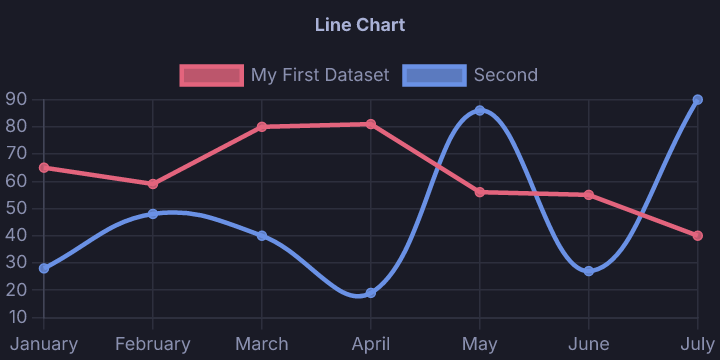
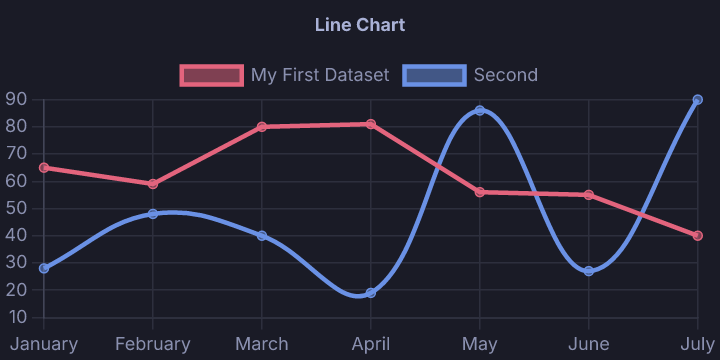
Shared hover path, browser-ready terminal APIs, translucent theme area fills
Library changes the demo site needed, each useful on its own:
- Chart::hover_at: pointer position (or None) to active elements and tooltip, as Chart.js's
  event handling does. Session now calls it; so do the canvas and terminal halves of the demo,
  so every host hovers through one code path.
- TerminalInfo::from_capabilities: build a TerminalInfo from a sans-IO Detector result, for
  hosts that talk to the terminal themselves (a browser terminal, a remote session).
- Session::to_terminal: chart position to terminal device pixels, the inverse of how pointer
  reports map to the chart (an SGR 1016 report there hovers that point).
- next_image_id no longer calls std::process::id() on wasm32, where it panics.

Terminal themes: every dataset fill used the contrast-checked mark alpha (>= 0.8 on dark
themes), so line and radar areas hid each other and a radar's tick labels. Areas behind lines
(line and radar datasets) now use Chart.js's own 50% (Theme::area_color); bars, bubbles and
polar segments keep the contrast rule. Regenerated the 19 dark gallery images that change.

kc-preview: placeholder cells now read the third diacritic (the image id's top byte), so
double-buffered ids (kitty::alternate_id) show in its screenshots instead of blank charts.

Tests: hover_at (active/tooltip/change reporting), to_terminal round trip in kitty and text
modes, theme area alpha for mixed bar+line and radar; all mutation-checked.

Changed region(s): [[0.55, 0.1833, 0.6417, 0.2444], [0.2444, 0.1833, 0.3361, 0.2444], [0.9472, 0.6417, 0.9778, 0.6722]]

diff --git a/crates/kittychart-core/src/chart.rs b/crates/kittychart-core/src/chart.rs
@@ -462,6 +462,27 @@ impl Chart {
         self.tooltip_event = event;
     }
 
+    /// The pointer is at `(x, y)` in chart CSS pixels, or left the chart (`None`): set the
+    /// active elements and the tooltip as Chart.js's event handling does (the `hover` and
+    /// `interaction` options pick what is active, the tooltip's own mode what it lists).
+    /// Returns whether anything visible changed (the next draw differs).
+    pub fn hover_at(&mut self, p: Option<(f64, f64)>) -> bool {
+        let (active, tooltip) = match p {
+            Some((x, y)) => (
+                self.elements_at(x, y, &self.hover_interaction()),
+                self.elements_at(x, y, &self.tooltip_interaction()),
+            ),
+            None => (vec![], vec![]),
+        };
+        let mut sorted = active.clone();
+        sorted.sort();
+        sorted.dedup();
+        let changed = sorted != self.active || tooltip != self.tooltip_active || self.tooltip_event != p;
+        self.set_active(active);
+        self.set_tooltip(tooltip, p);
+        changed
+    }
+
     /// `chart.getDataVisibility(index)`.
     pub fn data_visible(&self, index: usize) -> bool {
         !self.hidden_data.contains(&index)
@@ -2504,8 +2525,10 @@ fn apply_colors_plugin(config: &ChartConfig, theme: Option<&crate::theme::Theme>
         let i = color_index;
         color_index += 1;
         if let Some(obj) = ds.as_object_mut() {
+            // Areas behind lines stay translucent; fills that are the mark keep their contrast.
+            let area = matches!(kind, ChartType::Line | ChartType::Radar);
             let (border, fill) = match theme {
-                Some(t) => (t.border_color(i), t.fill_color(i)),
+                Some(t) => (t.border_color(i), if area { t.area_color(i) } else { t.fill_color(i) }),
                 None => (
                     BORDER_COLORS[i % BORDER_COLORS.len()].to_owned(),
                     BACKGROUND_COLORS[i % BACKGROUND_COLORS.len()].to_owned(),
@@ -2608,4 +2631,52 @@ fn set_border_skipped(
     mark(&parse_edge(&edge));
     bar.border_skipped = res;
     let _ = is_between;
+}
+
+#[cfg(test)]
+mod colors_tests {
+    use super::*;
+    use crate::theme::{AREA_ALPHA, TerminalColors, Theme, parse_hex};
+
+    fn tokyonight() -> Theme {
+        let h = |s| parse_hex(s).unwrap();
+        let pal = [
+            "#1a1b26", "#f7768e", "#9ece6a", "#e0af68", "#7aa2f7", "#ad8ee6", "#449dab", "#a9b1d6",
+            "#414868", "#ff7a93", "#b9f27c", "#ff9e64", "#7da6ff", "#bb9af7", "#0db9d7", "#c0caf5",
+        ]
+        .map(h);
+        Theme::from_terminal(&TerminalColors {
+            background: h("#1a1b26"),
+            foreground: h("#a9b1d6"),
+            palette: Some(pal),
+        })
+    }
+
+    fn alpha(v: &Value) -> f64 {
+        let s = v.as_str().unwrap();
+        s.trim_end_matches(')').rsplit(',').next().unwrap().trim().parse().unwrap()
+    }
+
+    /// Terminal-theme fills: bars keep their contrast-checked opacity, while the areas behind
+    /// lines (line and radar fills) stay as translucent as Chart.js's, so overlapping areas and
+    /// a radar's tick labels show through.
+    #[test]
+    fn theme_fills_behind_lines_stay_translucent() {
+        let t = tokyonight();
+        assert!(t.fill_alpha >= 0.8, "dark themes use opaque mark fills: {}", t.fill_alpha);
+        let mixed = ChartConfig::from_json(
+            r#"{"type":"bar","data":{"labels":["a"],"datasets":[{"data":[1]},{"type":"line","data":[2],"fill":true}]}}"#,
+        )
+        .unwrap();
+        let ds = apply_colors_plugin(&mixed, Some(&t));
+        assert_eq!(alpha(&ds[0]["backgroundColor"]), t.fill_alpha);
+        assert_eq!(alpha(&ds[1]["backgroundColor"]), AREA_ALPHA);
+        let radar = ChartConfig::from_json(
+            r#"{"type":"radar","data":{"labels":["a","b","c"],"datasets":[{"data":[1,2,3],"fill":true},{"data":[3,2,1],"fill":true}]}}"#,
+        )
+        .unwrap();
+        for d in apply_colors_plugin(&radar, Some(&t)) {
+            assert_eq!(alpha(&d["backgroundColor"]), AREA_ALPHA);
+        }
+    }
 }

diff --git a/crates/kittychart/src/session.rs b/crates/kittychart/src/session.rs
@@ -234,20 +234,26 @@ impl Session {
         Some((rx / s, ry / s))
     }
 
+    /// Where chart position `(x, y)` (CSS pixels) is on the terminal, in device pixels from the
+    /// screen's top-left: the inverse of how pointer reports map to the chart. A pixel pointer
+    /// report (SGR mode 1016) at this position hovers that point.
+    pub fn to_terminal(&self, x: f64, y: f64) -> (u32, u32) {
+        let (cw, ch) = (f64::from(self.info.cell_width), f64::from(self.info.cell_height));
+        let (col, row) = (f64::from(self.region.col), f64::from(self.region.row));
+        let (px, py) = if matches!(self.mode, Mode::Text(_)) {
+            // Text charts are laid out in CELL_W×CELL_H "pixels" per cell.
+            ((x / f64::from(CELL_W) + col) * cw, (y / f64::from(CELL_H) + row) * ch)
+        } else {
+            let s = f64::from(self.scale);
+            (x * s + col * cw, y * s + row * ch)
+        };
+        (px.max(0.0).round() as u32, py.max(0.0).round() as u32)
+    }
+
     /// Hover at chart position `p` (or nowhere): active elements and tooltip, as Chart.js's
     /// event handling sets them.
     fn hover(&mut self, p: Option<(f64, f64)>) -> bool {
-        let (active, tooltip) = match p {
-            Some((x, y)) => {
-                let a = self.chart.elements_at(x, y, &self.chart.hover_interaction());
-                let t = self.chart.elements_at(x, y, &self.chart.tooltip_interaction());
-                (a, t)
-            }
-            None => (vec![], vec![]),
-        };
-        let changed = active != self.chart.active() || self.pointer != p;
-        self.chart.set_active(active);
-        self.chart.set_tooltip(tooltip, p);
+        let changed = self.chart.hover_at(p) || self.pointer != p;
         self.pointer = p;
         changed
     }
@@ -556,6 +562,22 @@ mod tests {
             mods: Mods::default(),
             pixels: true,
         })
+    }
+
+    #[test]
+    fn to_terminal_inverts_pointer_reports() {
+        for mode in [Mode::Kitty, Mode::Text(CellMode::Braille)] {
+            let mut s = session(mode);
+            s.frame(0.0);
+            for (x, y) in [(120.0, 80.0), (333.0, 211.0)] {
+                let (px, py) = s.to_terminal(x, y);
+                s.handle(&mouse(px, py));
+                let (cx, cy) = s.pointer.expect("pointer inside the chart");
+                // Rounding to whole device pixels moves the point by at most one of them.
+                let tol = if matches!(mode, Mode::Text(_)) { 1.0 } else { 1.0 / f64::from(s.scale) };
+                assert!((cx - x).abs() <= tol && (cy - y).abs() <= tol, "{mode:?}: {x},{y} -> {cx},{cy}");
+            }
+        }
     }
 
     #[test]

diff --git a/crates/kittychart/src/show.rs b/crates/kittychart/src/show.rs
@@ -23,7 +23,6 @@ use std::sync::atomic::{AtomicU32, Ordering};
 use std::time::Duration;
 
 use kittychart_canvas::cells::CellMode;
-#[cfg(any(unix, windows))]
 use kittychart_term::detect::Capabilities;
 #[cfg(any(unix, windows))]
 use kittychart_term::tty::{self, Tty};
@@ -145,8 +144,22 @@ pub struct TerminalInfo {
 impl TerminalInfo {
     #[cfg(any(unix, windows))]
     fn new(ws: tty::WindowSize, caps: Option<&Capabilities>) -> TerminalInfo {
-        let (cell_width, cell_height) = ws
-            .cell_px()
+        TerminalInfo::from_capabilities(ws.cols, ws.rows, ws.cell_px(), caps, tty::in_tmux())
+    }
+
+    /// From a sans-IO [`Detector`](kittychart_term::detect::Detector)'s result, for hosts that
+    /// talk to the terminal themselves (a browser terminal, a remote session). `cell_px` is the
+    /// cell size in device pixels when the host knows it; otherwise the terminal's own report
+    /// is used, then 10×20.
+    pub fn from_capabilities(
+        cols: u16,
+        rows: u16,
+        cell_px: Option<(u16, u16)>,
+        caps: Option<&Capabilities>,
+        tmux: bool,
+    ) -> TerminalInfo {
+        let (cell_width, cell_height) = cell_px
+            .filter(|(w, h)| *w > 0 && *h > 0)
             .or_else(|| caps.and_then(|c| c.cell_px).filter(|(w, h)| *w > 0 && *h > 0))
             .map_or((10.0, 20.0), |(w, h)| (f32::from(w), f32::from(h)));
         let colors = caps.and_then(|c| {
@@ -157,13 +170,13 @@ impl TerminalInfo {
             })
         });
         TerminalInfo {
-            cols: ws.cols,
-            rows: ws.rows,
+            cols,
+            rows,
             cell_width,
             cell_height,
             kitty: caps.is_some_and(|c| c.kitty_graphics),
             sixel: caps.is_some_and(|c| c.sixel),
-            tmux: tty::in_tmux(),
+            tmux,
             colors,
         }
     }
@@ -395,6 +408,10 @@ fn env_columns() -> Option<u16> {
 pub fn next_image_id() -> u32 {
     static NEXT: AtomicU32 = AtomicU32::new(0);
     let n = NEXT.fetch_add(1, Ordering::Relaxed);
+    // There are no processes in a browser (`process::id` panics there).
+    #[cfg(target_arch = "wasm32")]
+    let base = 0x5A17_u32.wrapping_mul(2_654_435_761);
+    #[cfg(not(target_arch = "wasm32"))]
     let base = std::process::id().wrapping_mul(2_654_435_761);
     (base.wrapping_add(n.wrapping_mul(97)) & 0x00FF_FFFF).max(1)
 }

diff --git a/crates/kittychart-preview/src/main.rs b/crates/kittychart-preview/src/main.rs
@@ -328,7 +328,7 @@ fn paint(
     while let Some(row) = row_iter.next() {
         let mut cells = cell_it_owner.update(row).expect("cell iter");
         let mut x = 0u32;
-        let mut prev: Option<(u32, u32)> = None;
+        let mut prev: Option<(u32, u32, u32)> = None;
         while let Some(cell) = cells.next() {
             let (px, py) = (pad + (x * cw) as f32, pad + (y * ch) as f32);
             if let Ok(Some(bg)) = cell.bg_color() {
@@ -342,13 +342,16 @@ fn paint(
             if g.first() == Some(&kitty::PLACEHOLDER) {
                 // A Unicode placeholder: draw this cell's tile of the image its color names.
                 let fg = cell.fg_color().ok().flatten().unwrap_or(colors.foreground);
-                let id = (u32::from(fg.r) << 16) | (u32::from(fg.g) << 8) | u32::from(fg.b);
-                // Missing diacritics continue the previous placeholder cell (kitty spec).
+                // Missing diacritics continue the previous placeholder cell (kitty spec); the
+                // third one is the id's most significant byte.
                 let row =
                     g.get(1).and_then(|&d| kitty::diacritic_index(d)).or(prev.map(|p| p.0)).unwrap_or(0);
                 let col =
                     g.get(2).and_then(|&d| kitty::diacritic_index(d)).or(prev.map(|p| p.1 + 1)).unwrap_or(0);
-                prev = Some((row, col));
+                let msb =
+                    g.get(3).and_then(|&d| kitty::diacritic_index(d)).or(prev.map(|p| p.2)).unwrap_or(0);
+                prev = Some((row, col, msb));
+                let id = (msb << 24) | (u32::from(fg.r) << 16) | (u32::from(fg.g) << 8) | u32::from(fg.b);
                 let gr = t.kitty_graphics().expect("graphics");
                 if let Some(img) = gr.image(id) {
                     let (iw, ih) = (img.width().expect("w"), img.height().expect("h"));

diff --git a/crates/kittychart/tests/interaction.rs b/crates/kittychart/tests/interaction.rs
@@ -77,3 +77,31 @@ fn hit_testing_matches_chartjs() {
     );
     eprintln!("{checked} queries match Chart.js");
 }
+
+/// `Chart::hover_at` (what the viewer, the widgets and the browser demo call on pointer
+/// motion): the hover mode picks the active elements, the tooltip mode what the tooltip lists,
+/// and it reports a change only when the next draw would differ.
+#[test]
+fn hover_at_sets_active_and_tooltip() {
+    let json = r#"{"type":"bar","data":{"labels":["a","b","c"],"datasets":[
+        {"data":[3,5,2]},{"data":[4,1,6]}]},
+        "options":{"animation":false,"interaction":{"mode":"index","intersect":false},
+        "plugins":{"tooltip":{"mode":"nearest"}}}}"#;
+    let mut chart = Chart::new(ChartConfig::from_json(json).unwrap());
+    chart.draw(&mut SkiaCanvas::new(600.0, 400.0, 1.0));
+    // Over the middle category: index mode activates both datasets' "b" bars.
+    let x = 300.0;
+    assert!(chart.hover_at(Some((x, 200.0))));
+    let both = vec![ActiveElement { dataset: 0, index: 1 }, ActiveElement { dataset: 1, index: 1 }];
+    assert_eq!(chart.active(), both.as_slice());
+    let expected_tooltip = chart.elements_at(x, 200.0, &chart.tooltip_interaction());
+    assert_eq!(expected_tooltip.len(), 1, "nearest mode lists one element");
+    // The same position again: nothing changes.
+    assert!(!chart.hover_at(Some((x, 200.0))));
+    // A new position over the same elements still changes the tooltip anchor.
+    assert!(chart.hover_at(Some((x + 1.0, 200.0))));
+    // Leaving clears everything, once.
+    assert!(chart.hover_at(None));
+    assert!(chart.active().is_empty());
+    assert!(!chart.hover_at(None));
+}

diff --git a/crates/kittychart-core/src/theme.rs b/crates/kittychart-core/src/theme.rs
@@ -62,6 +62,10 @@ const REFERENCE_LIGHT: [&str; 8] =
 const REFERENCE_DARK: [&str; 8] =
     ["#3987e5", "#d95926", "#199e70", "#c98500", "#d55181", "#008300", "#9085e9", "#e66767"];
 
+/// Alpha of area fills behind lines ([`Theme::area_color`]), the same as Chart.js's default
+/// background colors.
+pub const AREA_ALPHA: f64 = 0.5;
+
 /// ANSI hue families: (normal, bright) palette indices. Blue first, as Chart.js leads with blue.
 const FAMILIES: [(usize, usize); 6] = [(4, 12), (1, 9), (3, 11), (2, 10), (5, 13), (6, 14)];
 
@@ -139,9 +143,19 @@ impl Theme {
         css(self.series[i % self.series.len()])
     }
 
+    /// A fill that is itself the data mark (bars, bubbles, polar segments): opaque enough to
+    /// keep 3:1 contrast on the surface.
     pub fn fill_color(&self, i: usize) -> String {
         let [r, g, b] = self.series[i % self.series.len()];
         format!("rgba({r}, {g}, {b}, {})", self.fill_alpha)
+    }
+
+    /// A fill behind a line (line and radar areas, line points): the line carries the data, and
+    /// the area must let what it covers show through, overlapping areas and the scale's tick
+    /// labels. Chart.js's own translucency (its default backgrounds are 50% alpha).
+    pub fn area_color(&self, i: usize) -> String {
+        let [r, g, b] = self.series[i % self.series.len()];
+        format!("rgba({r}, {g}, {b}, {AREA_ALPHA})")
     }
 }
 
